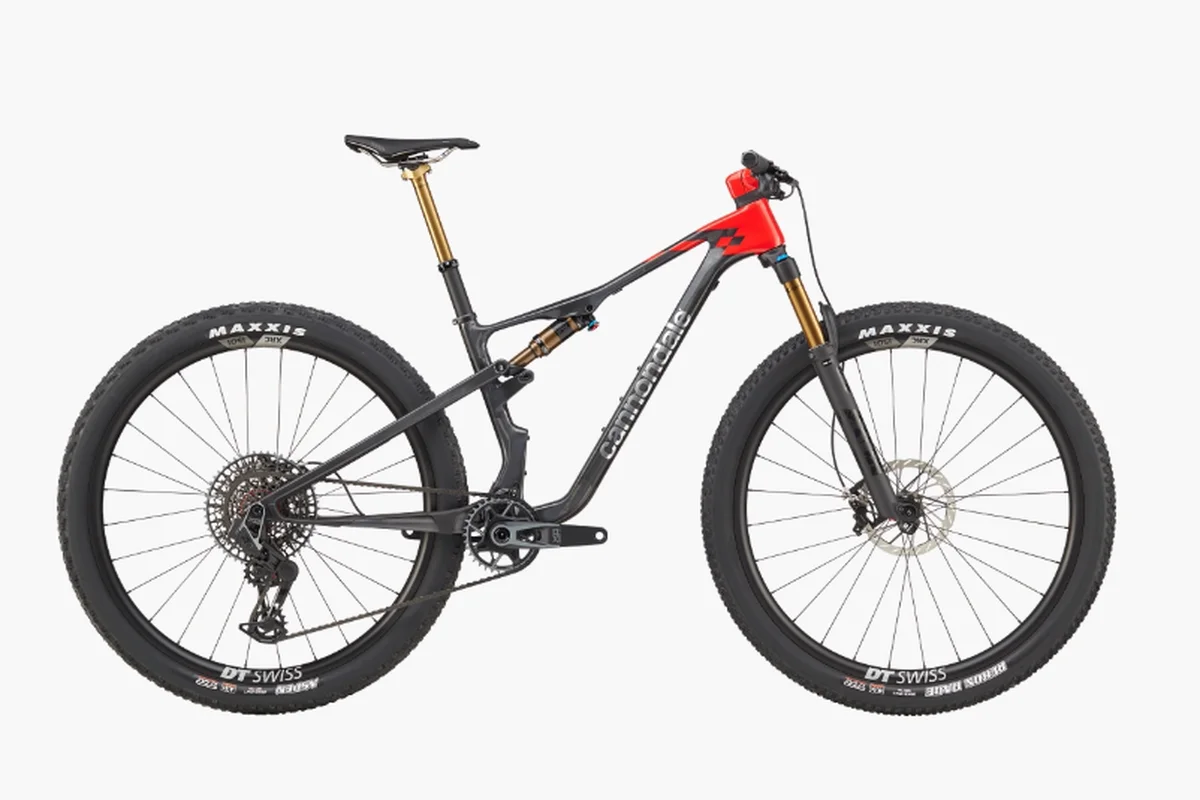
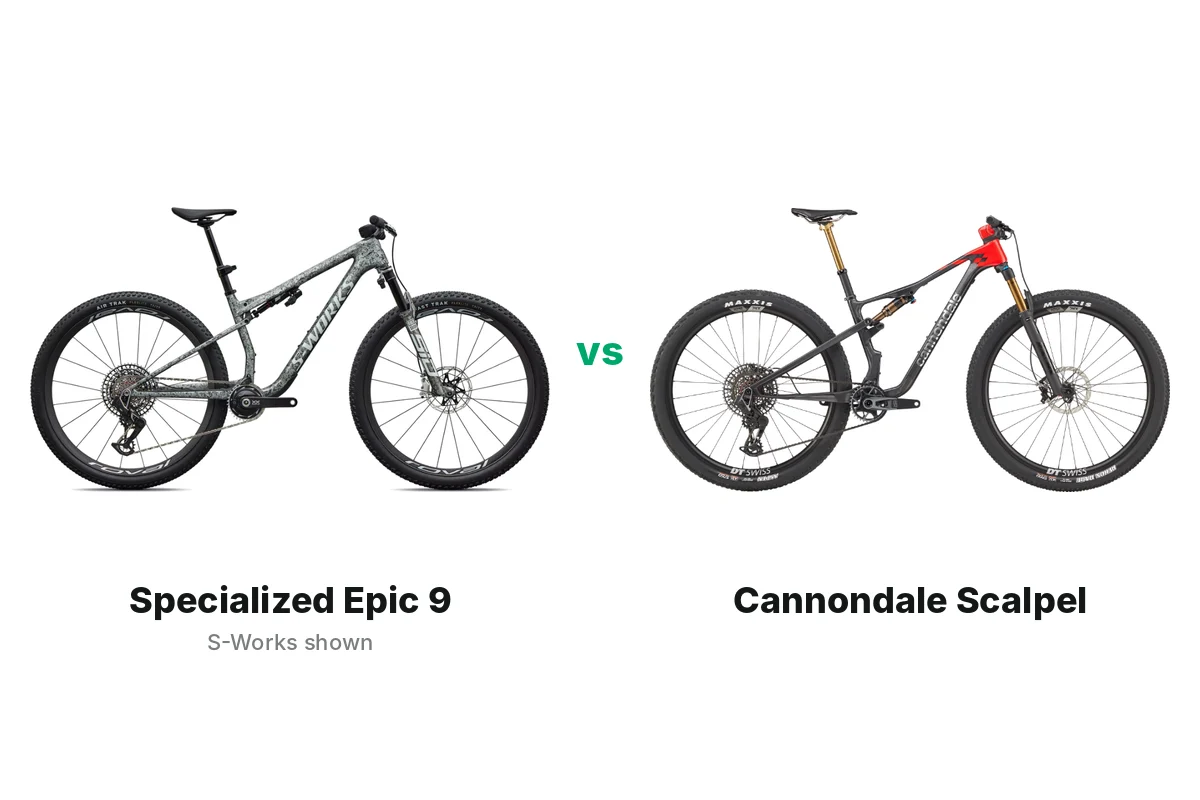
Epic 9 vs Scalpel: side-by-side cover
Claude-Session: https://claude.ai/code/session_0146ajwnrbA5r55xWrKVv2mz

Changed region(s): [[0.0, 0.1562, 0.9867, 0.9062]]

diff --git a/content/posts/specialized-epic-9-vs-cannondale-scalpel.md b/content/posts/specialized-epic-9-vs-cannondale-scalpel.md
@@ -7,8 +7,8 @@ categories: ["Mountain"]
 tags: ["Specialized Epic 9", "Cannondale Scalpel", "XC mountain bike", "bike comparison"]
 cover:
   image: "/images/specialized-epic-9-vs-cannondale-scalpel-cover.webp"
-  alt: "Cannondale Scalpel carbon XC full-suspension bike in gray and red with a Fox fork and SRAM Transmission drivetrain"
-  caption: "Cannondale Scalpel"
+  alt: "Side-by-side: S-Works Specialized Epic 9 in gray and a Cannondale Scalpel in gray and red, both carbon 29-inch XC full-suspension bikes"
+  caption: "Specialized Epic 9 (S-Works) and Cannondale Scalpel"
   relative: false
 draft: false
 ---
